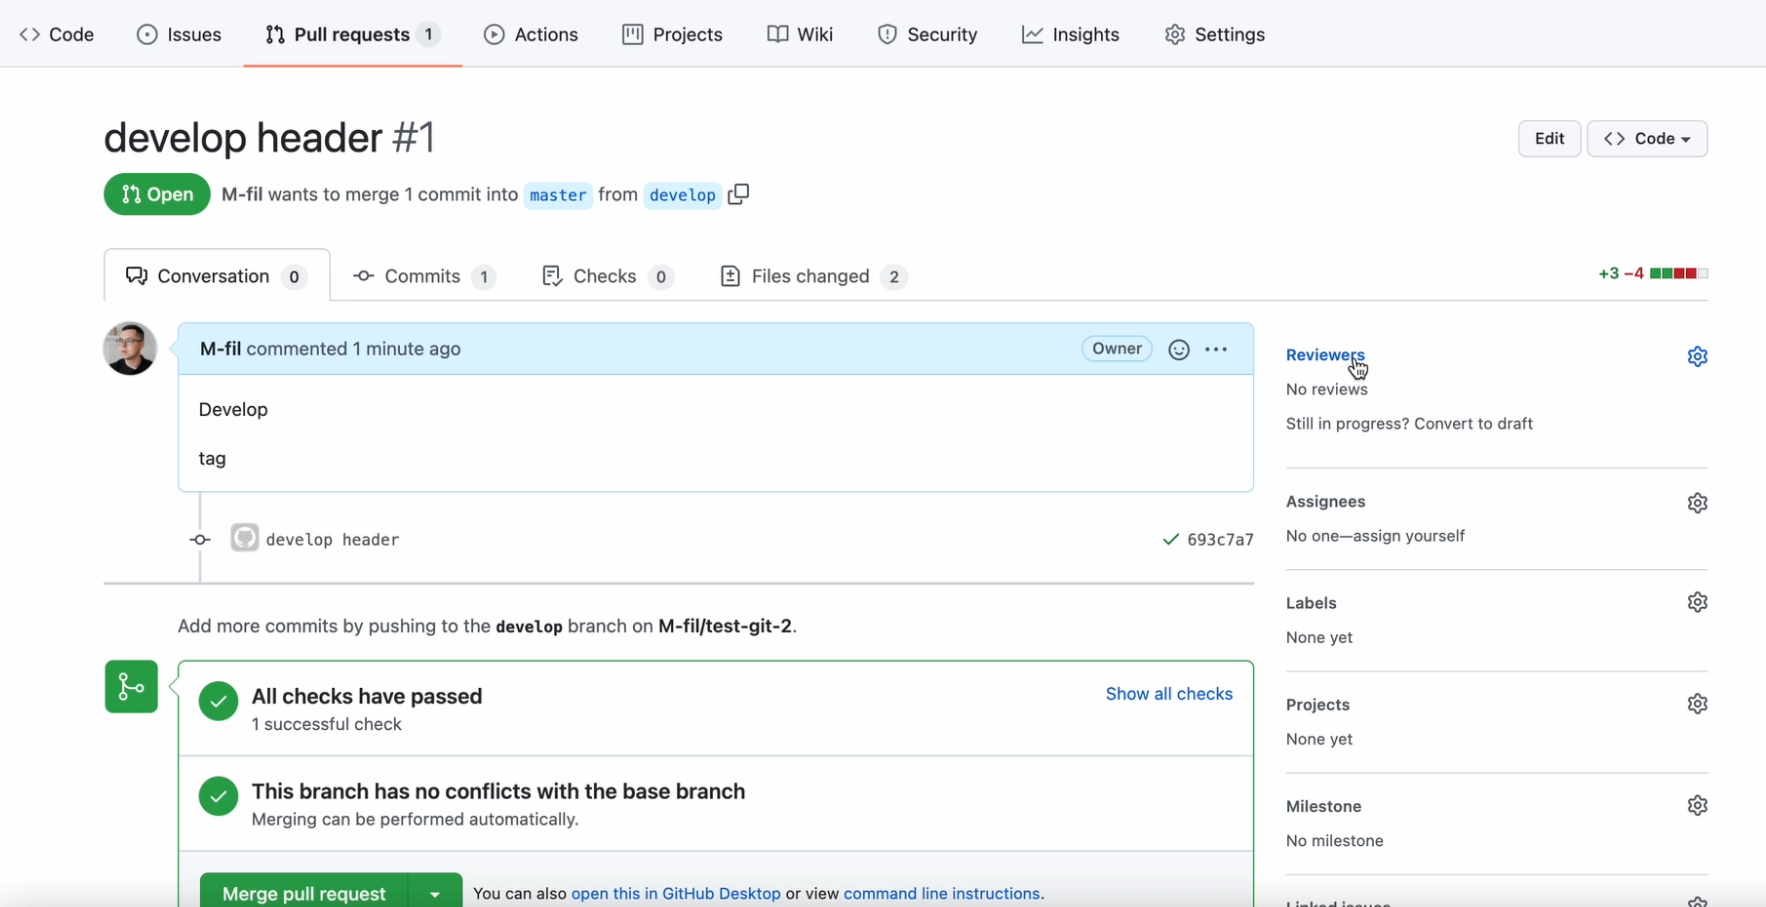
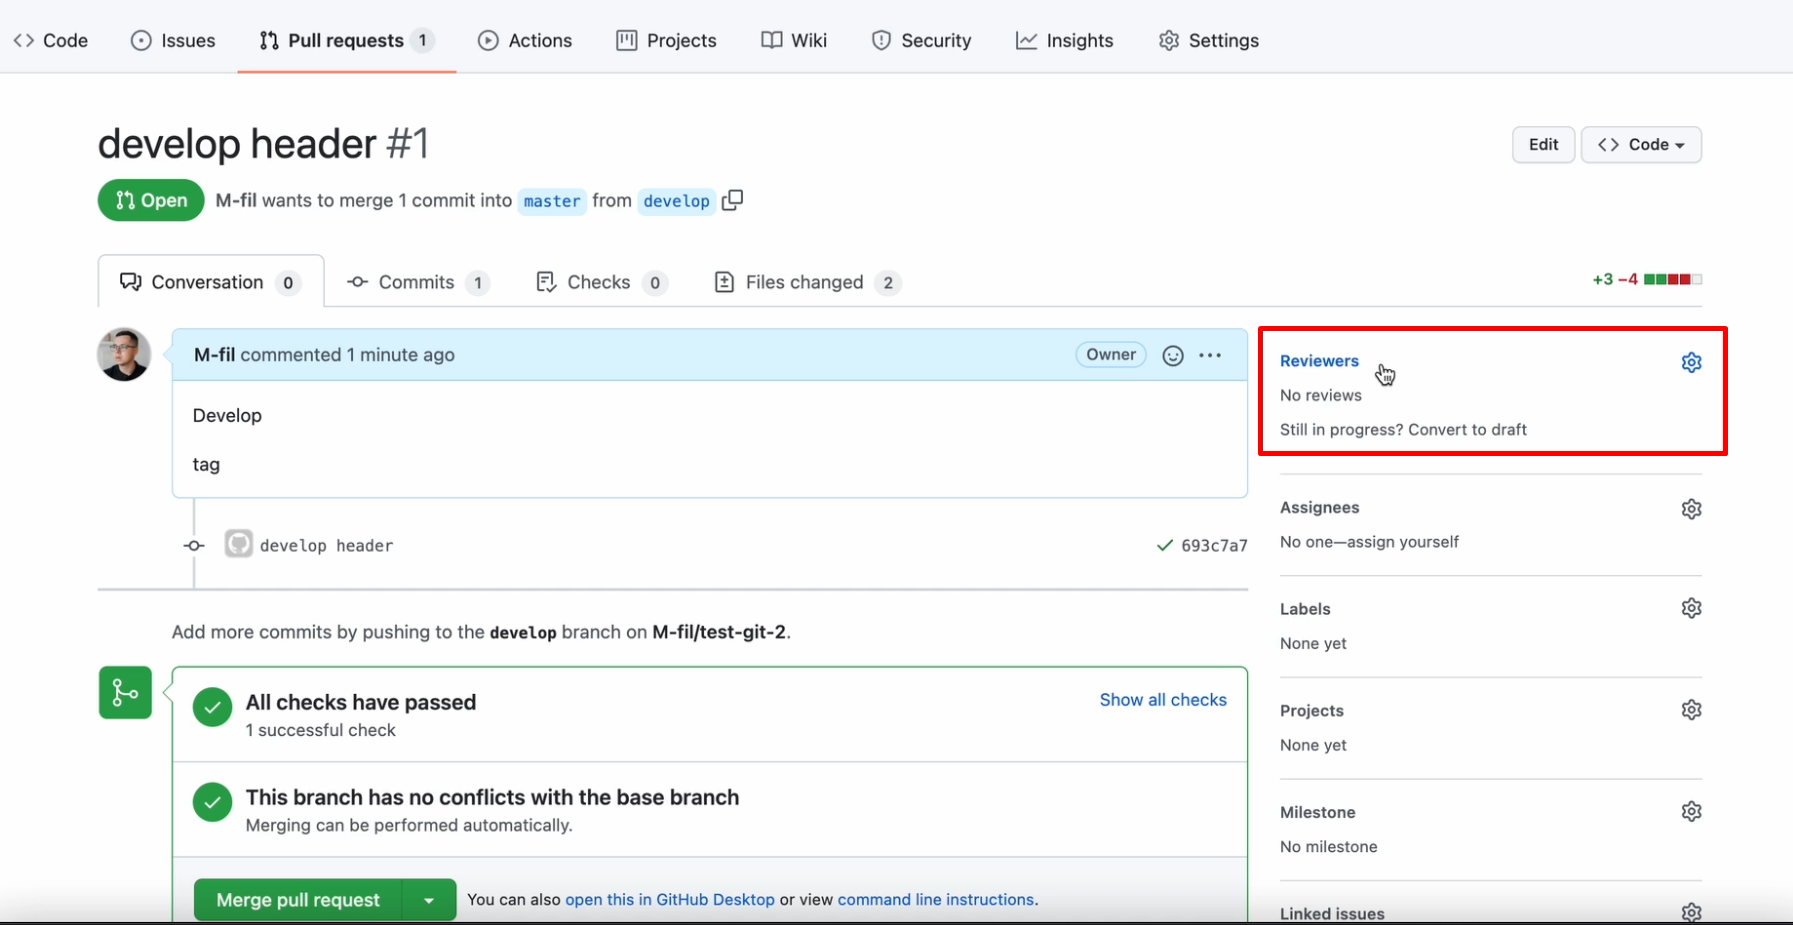
feat: add pictures

diff --git a/README.md b/README.md
@@ -37,6 +37,37 @@ pull request, а также описание. После этого нажима
 Можно посмотреть как обычно разработчики проверяют код друг у друга.
 Во первых мы можем добавить людей, которые будут смотреть наш код, их можно указать в reviewers
 ![Getting Started](./img/reviewers.png)
+и вводим GitHub человека, которому хотим добавить ревьювера.
+![Getting Started](./img/github_name.png)
+Также мы можем просмотреть все изменения, которые были сделаны конкретным разработчиком. Для этого мы можем переместиться в Files changed
+![Getting Started](./img/files_changed.png)
+и там можно посмотреть все изменения
+![Getting Started](./img/files_changed_continie.png)
+которые мы сделали в ветке name_branch, в данном слайде эта ветка называется develop
+![Getting Started](./img/files_changed_develop.png)
+и которых нет в ветке main/master
+Далее: к этим изменениям мы можем указать комментарии. Нажав на плюсик мы можем написать следующее:
+![Getting Started](./img/add_comment.png)
+после нажимает Start a reviewers
+![Getting Started](./img/start_a_review.png)
+Также мы можем добавить ещё комментариев, например:
+![Getting Started](./img/don't_remove_line.png)
+А далее, мы публикуем эти комментарии, чтобы они были видны разработчиками
+![Getting Started](./img/finish_comment.png)
+Чтобы это опубликовать, нажимаем Finish your review, пишем какой - то комментарий и 
+нажимаем Submit review
+![Getting Started](./img/submit_review.png)
+После этого, все наши комментарии будут видны всеми нашими разработчиками.
+И после того, когда все замечания будут исправлены и все баги пофикшены, мы нажать данную кнопку
+![Getting Started](./img/resolve_conversation.png)
+После того как все наши баги исправлены, мы сделаем слияние
+![Getting Started](./img/merge.png)
+Слияние (merge) - это перенос изменений из одной ветки в другую.
+Далее нажимаем confirm merge
+Обычно после merge удаляют ветку, которая была замёржена. В данном случае это develop
+Удаляют ветку так
+![Getting Started](./img/delete_branch.png)
+
 
 
 
